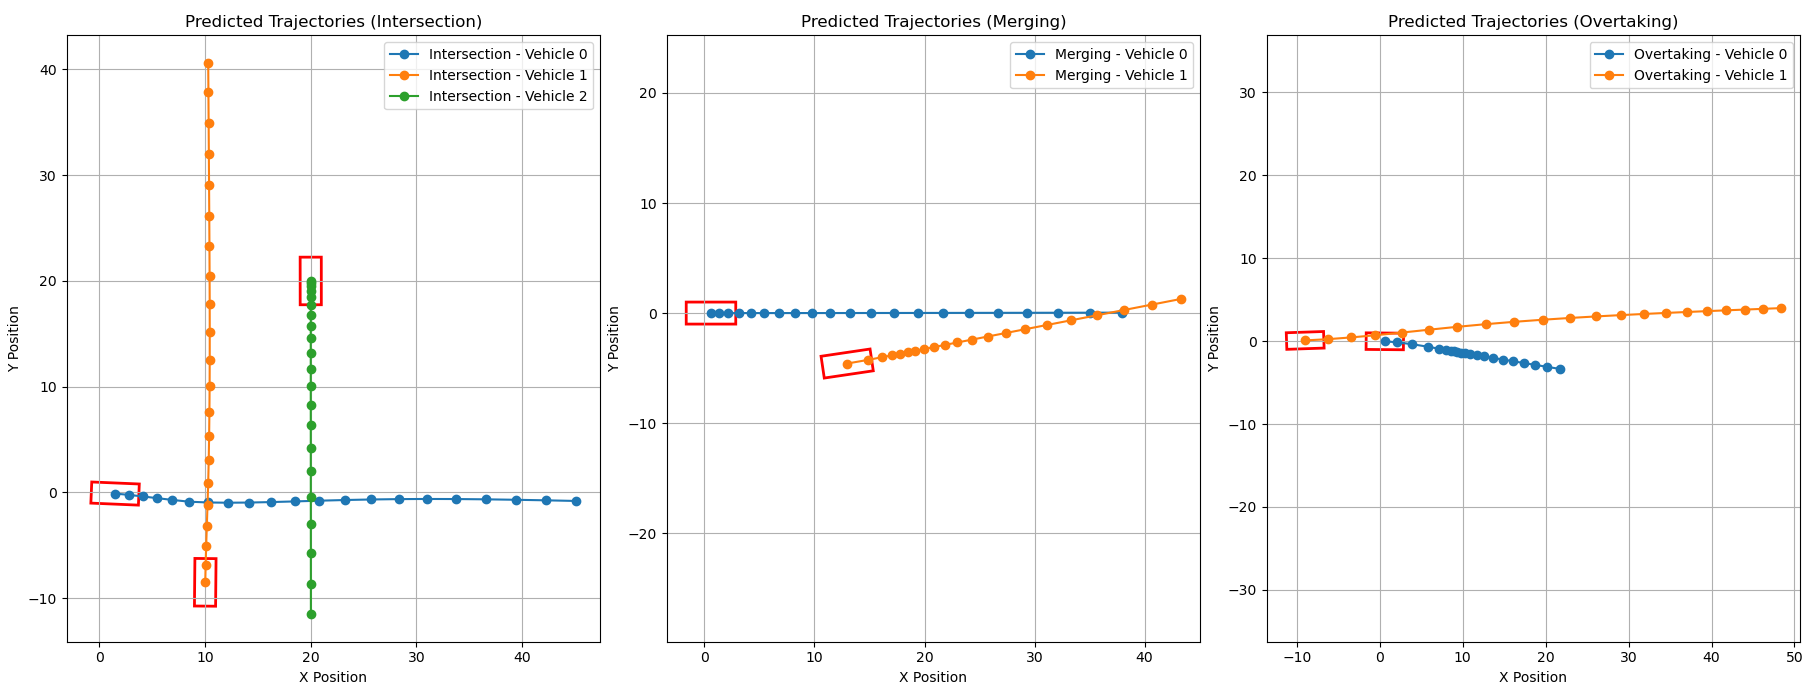
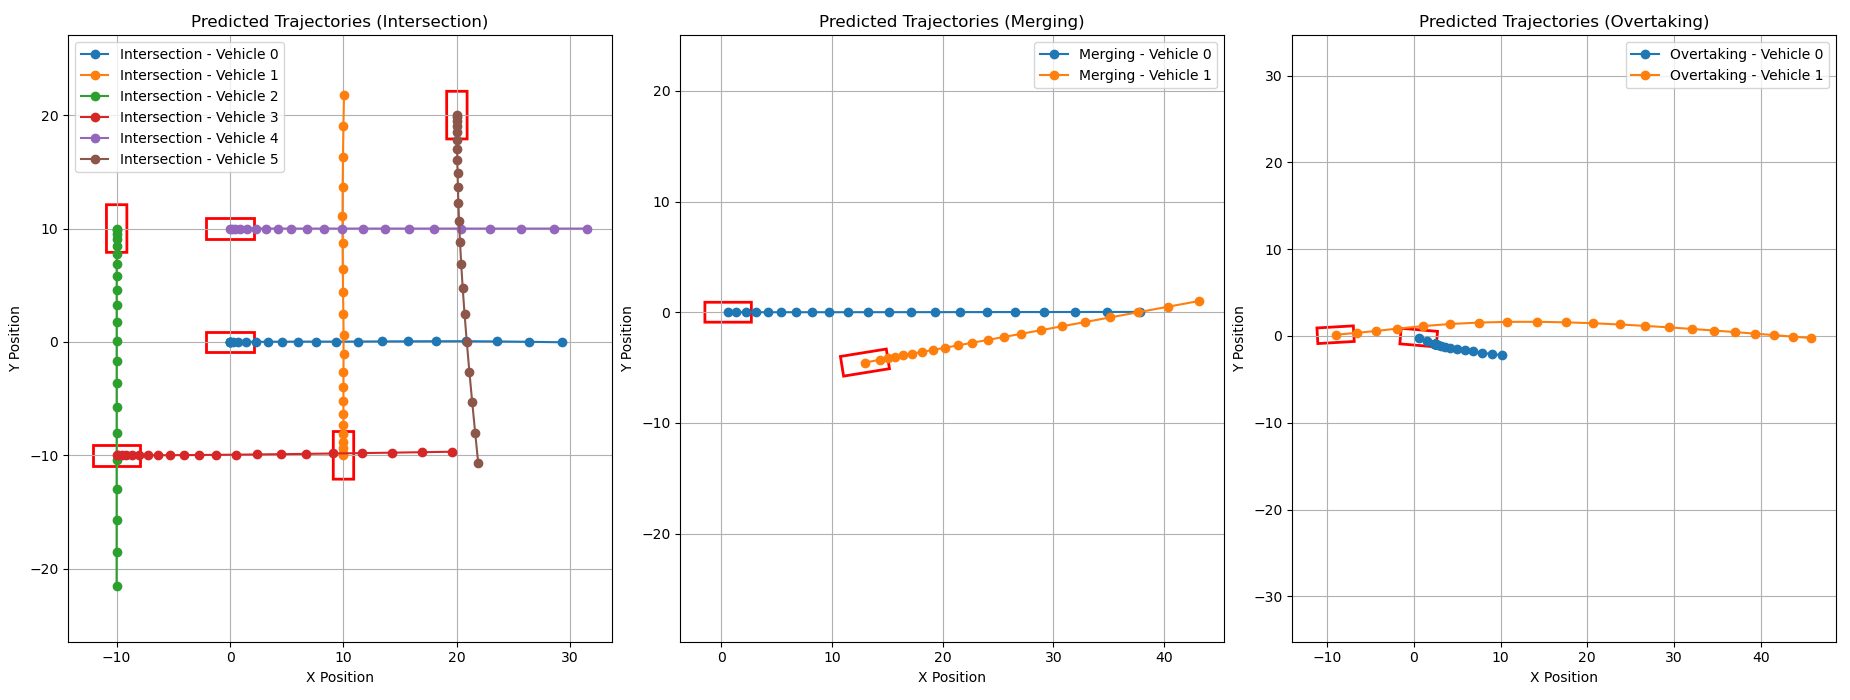
update, release version

diff --git a/src/main.cpp b/src/main.cpp
@@ -63,12 +63,17 @@ int main() {
     //---------------------------------------- INTERSECTION --------------------------------------------------------
     std::cerr<<"------------------------ Intersection Scenario -----------------------------"<<"\n";
 
-    // Define traffic participants (3 vehicles approaching an intersection)
+    // Define traffic participants (multiple vehicles approaching an intersection)
     TrafficParticipants traffic_intersection = {
         // x, y, v, psi, beta, a, v_target
-        {0.0, 0.0, 5.0, 0.0, 0.0, 0.0, 10.0},  // Vehicle 1 (moving along X)
-        {10.0, -10.0, 5.0, 1.57, 0.0, 0.0, 10.0}, // Vehicle 2 (coming from bottom Y)
-        {20.0, 20.0, 0.0, -1.57, 0.0, 0.0, 10.0} // Vehicle 3 (coming from top Y)
+        {0.0, 0.0, 0.0, 0.0, 0.0, 1.0, 10.0},  // Vehicle 1 (moving along X)
+        {10.0, -10.0, 0.0, 1.57, 0.0, 1.0, 10.0}, // Vehicle 2 (coming from bottom Y)
+        {-10.0, 10.0, 0.0, -1.57, 0.0, 1.0, 10.0}, // Vehicle 3 (coming from top Y)
+        {-10.0, -10.0, 0.0, 0.0, 0.0, 1.0, 10.0}, // Vehicle 4 (moving along X)
+        {0.0, 10.0, 0.0, 0.0, 0.0, 1.0, 10.0},  // Vehicle 5 (moving along X)
+        {20.0, 20.0, 0.0, -1.57, 0.0, 1.0, 10.0}, // Vehicle 6 (coming from top Y)
+        //{10.0, 10.0, 0.0, 3.14, 0.0, 1.0, 10.0}, // Vehicle 7 (moving backward X)
+        //{0.0, -10.0, 0.0, 1.57, 0.0, 1.0, 10.0}, // Vehicle 8 (coming from bottom Y)
     };
 
     // Generate center lanes for each vehicle
@@ -87,6 +92,21 @@ int main() {
             } else if (i == 2) {
                 x_vals.push_back(traffic_intersection[i].x);
                 y_vals.push_back(traffic_intersection[i].y - j * 5.0); // Move downward in Y
+            } else if (i == 3) {
+                x_vals.push_back(traffic_intersection[i].x + j * 5.0); // Move forward in X
+                y_vals.push_back(traffic_intersection[i].y); 
+            } else if (i == 4) { 
+                x_vals.push_back(traffic_intersection[i].x + j * 5.0); // Move forward in X
+                y_vals.push_back(traffic_intersection[i].y);
+            } else if (i == 5) { 
+                x_vals.push_back(traffic_intersection[i].x);
+                y_vals.push_back(traffic_intersection[i].y - j * 5.0); // Move downward in Y
+            } else if (i == 6) {
+                x_vals.push_back(traffic_intersection[i].x - j * 5.0); // Move backward in X
+                y_vals.push_back(traffic_intersection[i].y); 
+            } else if (i == 7) {
+                x_vals.push_back(traffic_intersection[i].x);
+                y_vals.push_back(traffic_intersection[i].y + j * 5.0); // Move downward in Y
             }
             s_vals.push_back(j * 5.0);
         }

diff --git a/plot_trajectories.py b/plot_trajectories.py
@@ -28,8 +28,8 @@ def plot_trajectories(df, scenario_name, ax):
             x_start, y_start, psi_start = x_vals[0], y_vals[0], psi_vals[0]
 
             # Vehicle dimensions
-            vehicle_length = 4.5  # meters
-            vehicle_width = 2.0  # meters
+            vehicle_length = 4.2  # meters
+            vehicle_width = 1.8  # meters
 
             # Compute bottom-left corner, considering both length & width
             x_corner = x_start - (vehicle_length / 2) * np.cos(psi_start) + (vehicle_width / 2) * np.sin(psi_start)

diff --git a/src/dynamic_game_planner.cpp b/src/dynamic_game_planner.cpp
@@ -602,7 +602,7 @@ void DynamicGamePlanner::trust_region_solver(double* U_)
     double r_ = 1e-8;
     double threshold_gradient_norm = M * 1e-2;
     int iter = 1;
-    int iter_lim = 20;
+    int iter_lim = 50;
 
     // Variables definition:
     double gradient[nG];
